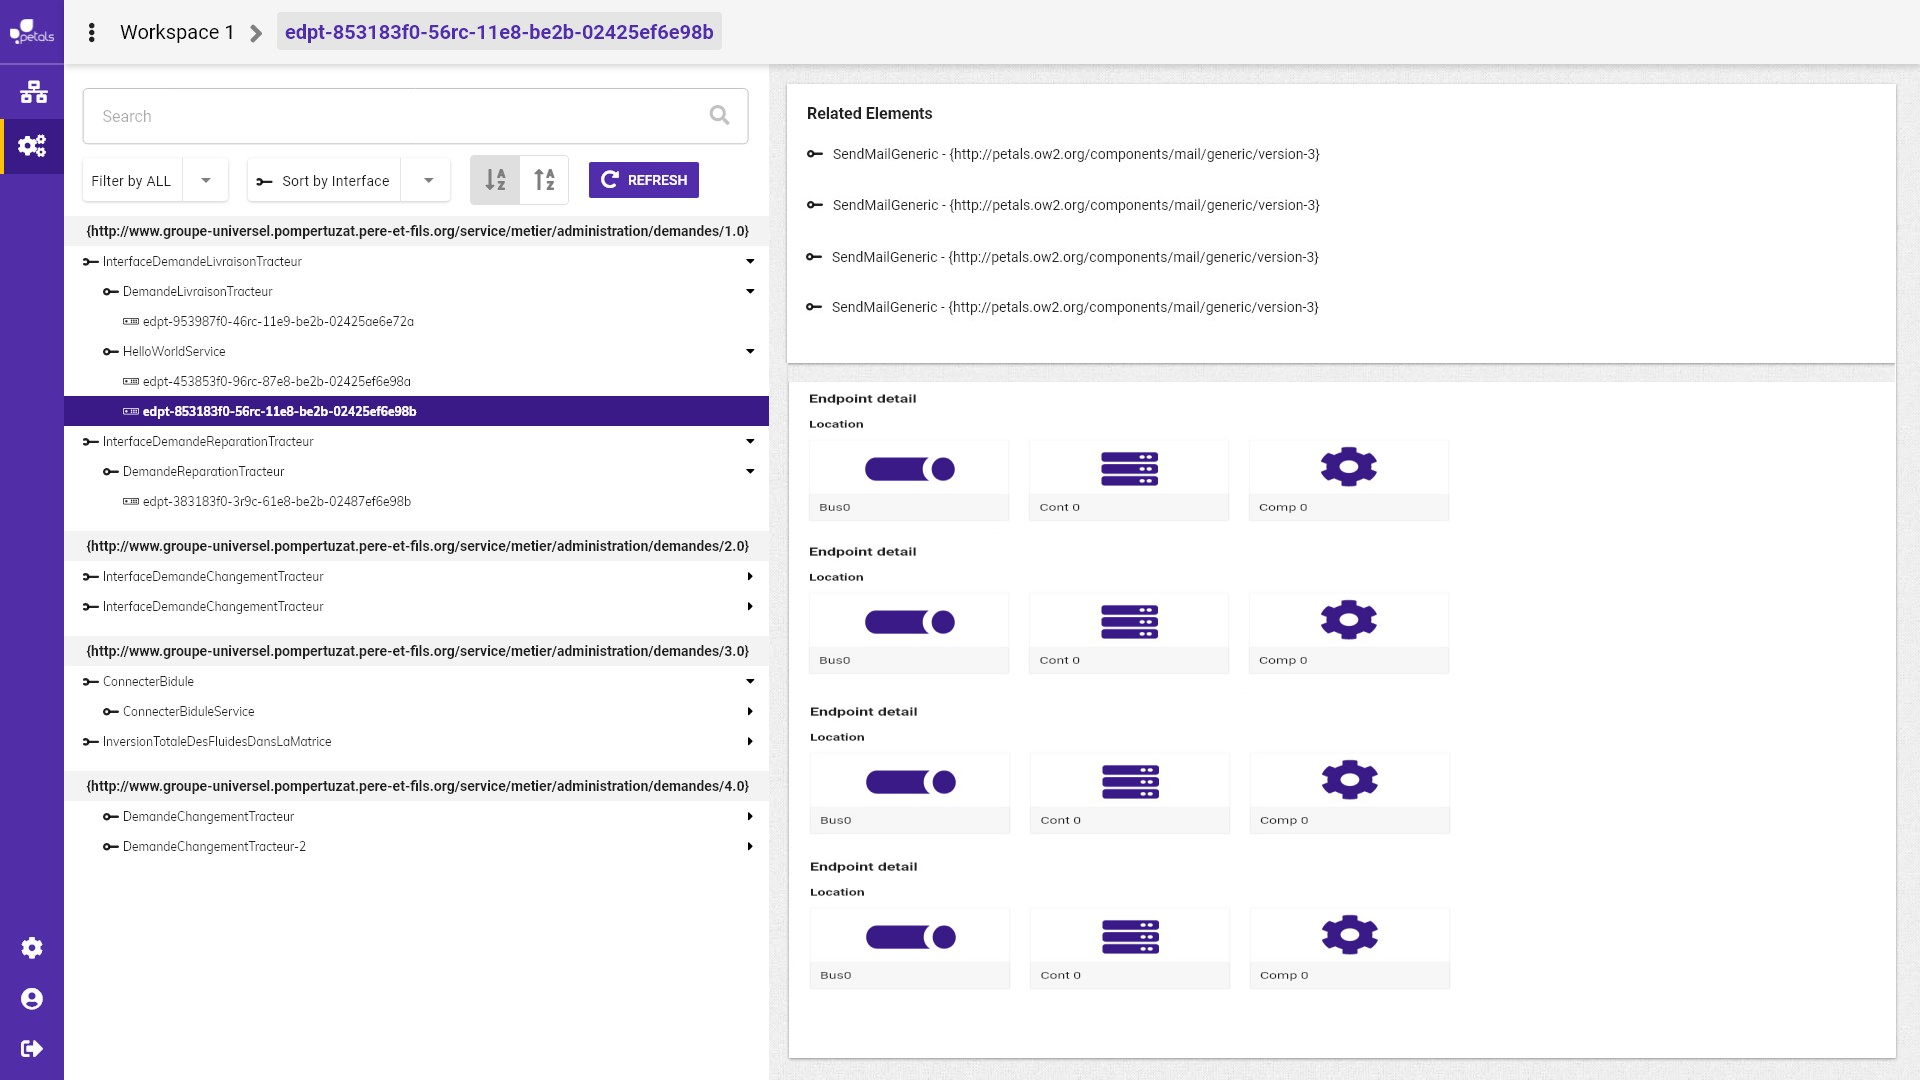
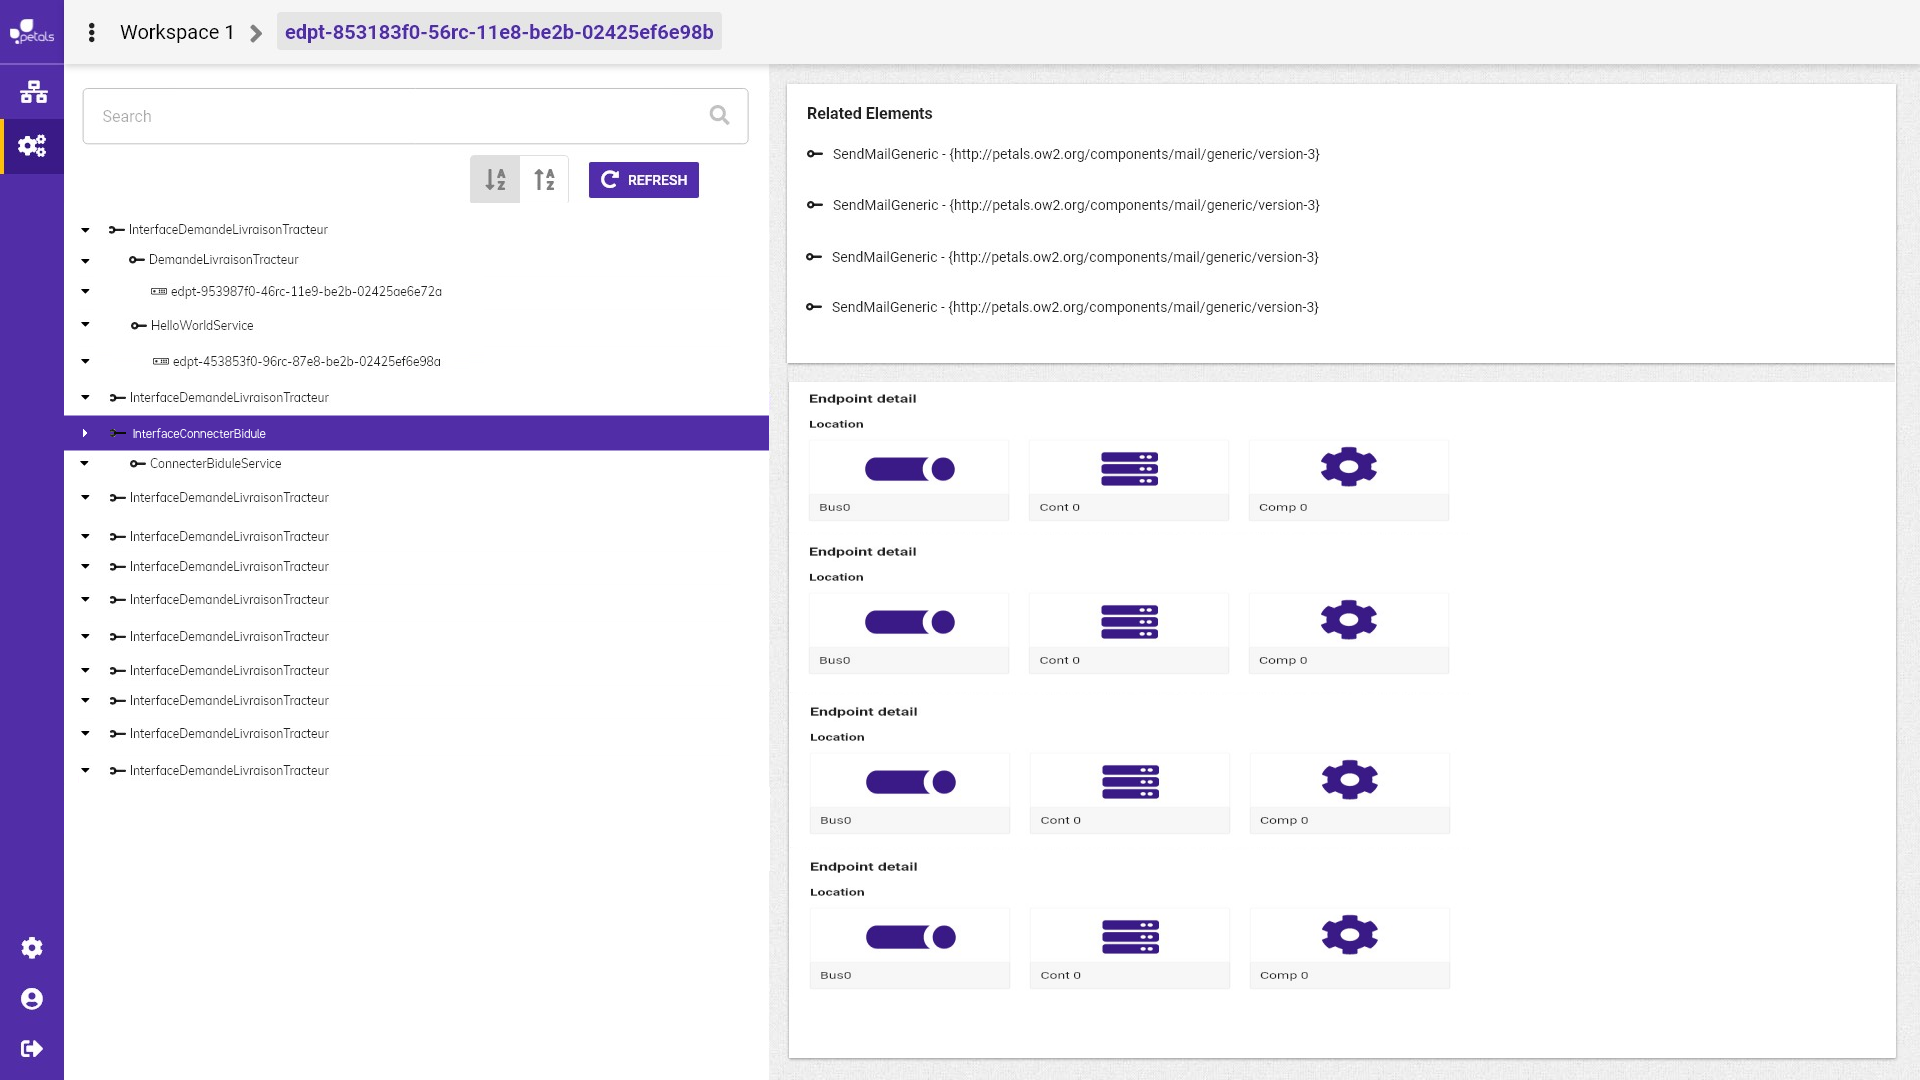
GitBook: [master] one page and 4 assets modified

Changed region(s): [[0.0312, 0.1528, 0.4062, 0.7944]]

diff --git a/taches/services/filtrer-avec-sort-by.md b/taches/services/filtrer-avec-sort-by.md
@@ -6,17 +6,11 @@ Lorsqu'on sélectionne un service, il apparaît le endpoint associé à ce servi
 
 L'utilisation du change tree level va permettre de descendre d'un niveau la hiérarchie de l'arbre. ainsi la liste des interfaces se trouvant au niveau 0 disparaît, laissant place à la liste des services. Il y aura une réorganisation de l'arbre car on souhaite afficher tous les endpoints liés aux services contrairement aux endpoints associés à une interface et un service.
 
-le deuxième niveau du change tree level, va faire disparaître les services au niveau 0 et laisser place à la liste des endpoints. A la sélection de celui-ci, l'encadré détail laissera apparaître dans l'encadré related element, l'interface et le service lui étant lié. Dans l'encadré détail endpoint, apparaîtra le bus, conteneur et composant lui étant associé.
+le deuxième niveau du change tree level, va faire disparaître les services au niveau 0 et laisser place à la liste des endpoints. A la sélection de celui-ci, l'encadré détail laissera apparaître dans l'encadré related élément, l'interface et le service lui étant lié. Dans l'encadré détail endpoint, apparaîtra le bus, conteneur et composant lui étant associé.
 
+![Premier niveau, s&#xE9;lection Interface](../../.gitbook/assets/selectioninterface%20%282%29.png)
 
+![Second niveau, s&#xE9;lection Services](../../.gitbook/assets/changelevel.png)
 
-![Sort By positionn&#xE9; sur namespace](../../.gitbook/assets/service-endpoints-detail-endpoint-selected-sortedby-namespace.png)
-
-{% hint style="info" %}
-Maquette montrant le sort By positionné sur interface
-{% endhint %}
-
-{% hint style="info" %}
-Maquette montrant le sort By positionné sur service
-{% endhint %}
+![Troisi&#xE8;me niveau, s&#xE9;lection endpoints](../../.gitbook/assets/changelevelendpoint.png)
 
